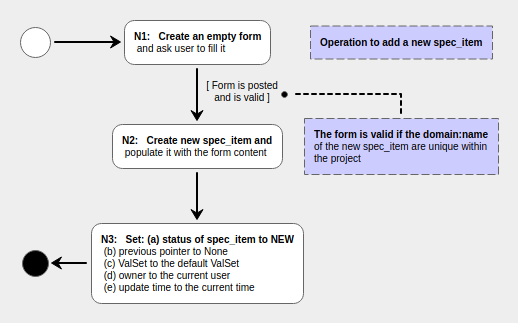
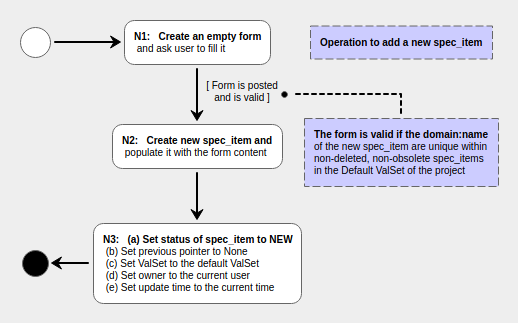
Updated spec_item edit and split functions

Changed region(s): [[0.1544, 0.6811, 0.5869, 0.9288], [0.5869, 0.4644, 0.9884, 0.5882]]

diff --git a/editor/templates/help.html b/editor/templates/help.html
@@ -335,18 +335,21 @@
     When specification item S1 in the Default ValSet is split, a new specification item S2 is created with
     the following characteristics:
     <ul>
-    <li>S2 has the same domain:name as S1</li>
+    <li>S2 has the same domain and name as S1</li>
     <li>The val_set attribute of S2 is different from the val_set attribute of all other specification
-        items created by splitting S1</li>
+        items created by splitting S1 (i.e. no two specification items with the same domain and name can 
+        belong to the same ValSet) </li>
     <li>The 'parent' attribute of S2 points to S1</li>
     <li>Other pointer attributes of S2 are left blank</li>
-    <li>Non-pointer attributes of S2 other than domain:name can be set freely</li>
+    <li>Non-pointer attributes of S2 other than domain and name can be set freely</li>
     </ul>
-    When the two specification items S1 and S2 are processed further, the following constraints are enforced:
+    </p><p>
+    When the two specification items S1 and S2 are edited, the following constraints are enforced:
     <ul>
-    <li>The ValSet of S1 and S2 cannot be changed</li>
-    <li>The domain:name and the pointer attributes of S2  cannot be changed</li>
-    <li>If the domain:name of S1 is updated, the change is propagated to S2</li>
+    <li>The ValSet cannot be changed (i.e. the ValSet attribute can only be modified in a split operation)</li>
+    <li>The domain and the name of S2  cannot be changed</li>
+    <li>The pointer attributes of S2  cannot be changed (i.e. they must remain blank)</li>
+    <li>If the domain or the name of S1 is updated, the change is propagated to S2</li>
     <li>If S1 is deleted, then S2 is deleted, too</li>
     <li>Pointer attributes of S1 can only point to specification items in the Default ValSet</li>
     </ul>
@@ -364,20 +367,20 @@
     <li><strong>Delete</strong>: a spec_item is deleted</li>
     <li><strong>Split</strong>: a copy of a spec_item is created in a different ValSet</li>
     </ul>
+    </p><p>
     The semantics of these operations is illustrated in the activity diagrams below.
     In all cases, the user is presented a form which he fills in with information related to
     the requested operation.
     Before being processed, a validity check is performed on the data entered in the form by
     the user.
-    The validity check comprises: (a) generic checks as specified in the activity
-    diagrams below and (b) category-specific checks.
+    The validity check comprises: (a) generic checks and (b) category-specific checks.
+    The generic checks are specified in the activity diagrams below.
     The category-specific checks are:
     <ul>
     <li><strong>Data Item Type</strong>: If the kind of a data item type is set to non-enumerated, 
                                          it cannot have enumerated items attached to it</li>
     <li><strong>TBD</strong>: TBD</li>
     </ul>
-    
     </p><p>
     <img src="{% static 'images/AddSpecItem.png' %}"> 
     </p><p>

diff --git a/editor/templates/list_spec_items.html b/editor/templates/list_spec_items.html
@@ -97,13 +97,13 @@
                    href="{% url 'copy_spec_item' cat project.id application_id item.id sel_dom %}" title="Copy {{config.name}}">C</a>
                 <a class="btn btn-outline-dark btn-sm"
                    href="{% url 'del_spec_item' cat project.id application_id item.id sel_dom %}" title="Delete {{config.name}}">D</a>
+                <a class="btn btn-outline-dark btn-sm"
+                   href="{% url 'split_spec_item' cat project.id application_id item.id sel_dom %}" title="Split {{config.name}}">S</a>
                 {% endif %}
                 <a class="btn btn-outline-dark btn-sm"
                    href="{% url 'edit_spec_item' cat project.id application_id item.id sel_dom %}" title="Edit {{config.name}}">E</a>
                 <a class="btn btn-outline-dark btn-sm"
                    href="{% url 'list_spec_item_history' cat project.id application_id item.id sel_dom %}" title="{{config.name}} History">H</a>
-                <a class="btn btn-outline-dark btn-sm"
-                   href="{% url 'split_spec_item' cat project.id application_id item.id sel_dom %}" title="Split {{config.name}}">S</a>
                 {% if item.cat == 'DataItemType' and item.kind == 'ENUM' %}
                 <a class="btn btn-outline-dark btn-sm"
                    href="{% url 'add_spec_item' 'EnumItem' project.id application_id sel_dom %}?parent_id={{item.id}}" title="Add {{config.child_desc.name}}">A</a>

diff --git a/editor/views.py b/editor/views.py
@@ -17,8 +17,8 @@ from zipfile import ZipFile
 from datetime import datetime
 from itertools import chain
 
-from editor.configs import configs, dict_to_spec_item, duplicate_spec_item, save_spec_item, \
-                           remove_spec_item
+from editor.configs import configs, dict_to_spec_item, make_obs_spec_item_copy, save_spec_item, \
+                           remove_spec_item, update_dom_name_in_val_set
 from editor.models import Project, ProjectUser, Application, Release, ValSet, SpecItem, \
                           Requirement 
 from editor.forms import ApplicationForm, ProjectForm, ValSetForm, ReleaseForm, SpecItemForm
@@ -67,7 +67,7 @@ def change_password(request):
             messages.success(request, 'Your password was successfully updated!')
             return redirect('change_password')
         else:
-            messages.error(request, 'Please correct the error below.')
+            messages.error(request, 'Please correct the error below')
     else:
         form = PasswordChangeForm(request.user)
 
@@ -378,21 +378,13 @@ def edit_spec_item(request, cat, project_id, application_id, item_id, sel_dom):
                             initial=model_to_dict(spec_item))
         if form.is_valid():
             if spec_item.status == 'CNF':
-                spec_item.status = 'OBS'
-                old_spec_item = duplicate_spec_item(request, spec_item)
-                edited_spec_item = SpecItem()
-                edited_spec_item.cat = cat
-                edited_spec_item.status = 'MOD'
-                edited_spec_item.val_set = spec_item.val_set
-                edited_spec_item.previous = old_spec_item
-            else:
-                edited_spec_item = spec_item
-            dict_to_spec_item(form.cleaned_data, edited_spec_item)
-            edited_spec_item.updated_at = datetime.now()
-            edited_spec_item.owner = get_user(request)
-            edited_spec_item.project = project
-            edited_spec_item.application = application
-            save_spec_item(edited_spec_item)
+                spec_item = make_obs_spec_item_copy(request, spec_item)
+            dict_to_spec_item(form.cleaned_data, spec_item)
+            spec_item.updated_at = datetime.now()
+            spec_item.owner = get_user(request)
+            save_spec_item(spec_item)
+            if (spec_item.val_set.name == 'Default') and (('name' in form.changed_data) or ('domain' in form.changed_data)):
+                update_dom_name_in_val_set(spec_item)
             redirect_url = '/editor/'+cat+'/'+str(project_id)+'/'+str(application_id)+'/'+str(spec_item.val_set.id)+\
                            '/'+sel_dom+'/list_spec_items'
             return redirect(redirect_url)
@@ -406,16 +398,16 @@ def edit_spec_item(request, cat, project_id, application_id, item_id, sel_dom):
 @login_required         
 def copy_spec_item(request, cat, project_id, application_id, item_id, sel_dom):
     project = Project.objects.get(id=project_id)
+    spec_item = SpecItem.objects.get(id=item_id)
     if application_id != 0:
         application = Application.objects.get(id=application_id)
         title = 'Copy '+configs[cat]['name']+' in Application '+application.name
     else:
         application = None
         title = 'Copy '+configs[cat]['name']+' in Project '+project.name
-    if not has_access_to_project(request.user, project):
+    if not has_access_to_project(request.user, project) or (spec_item.val_set.name != 'Default'):
         return redirect(base_url)
   
-    spec_item = SpecItem.objects.get(id=item_id)
     if request.method == 'POST':   
         form = SpecItemForm('copy', cat, project, application, configs[cat], request.POST, \
                             initial=model_to_dict(spec_item))
@@ -441,29 +433,28 @@ def copy_spec_item(request, cat, project_id, application_id, item_id, sel_dom):
 @login_required         
 def split_spec_item(request, cat, project_id, application_id, item_id, sel_dom):
     project = Project.objects.get(id=project_id)
+    spec_item = SpecItem.objects.get(id=item_id)
     if application_id != 0:
         application = Application.objects.get(id=application_id)
         title = 'Split '+configs[cat]['name']+' in Application '+application.name
     else:
         application = None
         title = 'Split '+configs[cat]['name']+' in Project '+project.name
-    if not has_access_to_project(request.user, project):
+    if not has_access_to_project(request.user, project)  or (spec_item.val_set.name != 'Default'):
         return redirect(base_url)
   
-    spec_item = SpecItem.objects.get(id=item_id)
     if request.method == 'POST':   
         form = SpecItemForm('split', cat, project, application, configs[cat], request.POST, \
                             initial=model_to_dict(spec_item))
         if form.is_valid():
             new_spec_item = SpecItem()
             new_spec_item.cat = cat
-            default_val_set = ValSet.objects.filter(project_id=project.id).get(name='Default')
-            new_spec_item.val_set = default_val_set
             dict_to_spec_item(form.cleaned_data, new_spec_item)
             new_spec_item.updated_at = datetime.now()
             new_spec_item.owner = get_user(request)
             new_spec_item.project = project
             new_spec_item.application = application
+            new_spec_item.parent = spec_item
             new_spec_item.status = 'NEW'
             save_spec_item(new_spec_item)
             redirect_url = '/editor/'+cat+'/'+str(project_id)+'/'+str(application_id)+'/'+str(spec_item.val_set.id)+\

diff --git a/editor/configs.py b/editor/configs.py
@@ -61,6 +61,7 @@ configs = {'Requirement':{'name': 'Requirement',
                             'cols': {}
                            }
               }
+              
 
 def dict_to_spec_item(dic, spec_item):
     """ 
@@ -102,16 +103,34 @@ def dict_to_spec_item(dic, spec_item):
                 spec_item.req.ver_method = dic['ver_method']
 
           
-def duplicate_spec_item(request, spec_item):
-    """ Create a copy of spec_item, save it to the database and return it """
+def make_obs_spec_item_copy(request, spec_item):
+    """ 
+    The argument spec_item must be made obsolete: the previous pointer of spec_item is reset;
+    a copy of the spec_item is created; its status is set to OBS; the spec_item copy is saved 
+    to the database; the status of the argument spec_item is set to MOD; its previous
+    pointer is set to point to the newly created OBS copy; the original spec_item instance
+    is returned to the caller 
+    """
+    edited_spec_item_id = spec_item.id
+    previous = spec_item.previous
+    spec_item.previous = None
+    spec_item.save()            # Reset the previous pointer of the spec_item 
+    
     if spec_item.cat == 'Requirement':
         req = spec_item.req
         req.id = None
-        req.save()              # Create new instance holding the old version of the Requirement
+        req.save()              # Create new instance holding the old version of Requirement instance
         spec_item.req = req     # Now spec_item points to the newly-created Requirement instance
+    
+    spec_item.status = 'OBS'
+    spec_item.previous = previous
     spec_item.id = None
-    spec_item.save()            # Create new instance holding the old version of the spec_item
-    return spec_item            # Return the newly-created instance of spec_item
+    spec_item.save()            # Create new instance holding the OBS version of the spec_item
+    
+    edited_spec_item = SpecItem.objects.get(id=edited_spec_item_id) # Retrive original spec_item instance
+    edited_spec_item.previous = spec_item   # Now spec_item points to newly-created OBS copy 
+    edited_spec_item.status = 'MOD'
+    return edited_spec_item     # Return the newly-created instance of spec_item
 
 
 def remove_spec_item(request, spec_item):
@@ -120,7 +139,7 @@ def remove_spec_item(request, spec_item):
         spec_item.delete()
     except Exception as e:
         messages.error(request, 'Failure to delete ' + str(spec_item) + \
-                                ', possibly because it has children attached to it: ' + str(e))
+                                ', possibly because other spec_item reference it: ' + str(e))
         return
     if spec_item.req != None:
         spec_item.req.delete()    
@@ -139,3 +158,19 @@ def save_spec_item(spec_item):
     if spec_item.req != None:
         spec_item.req.save()
     spec_item.save()
+
+
+def update_dom_name_in_val_set(spec_item):
+    """ 
+    Propagate a change in domain:name in spec_item to spec_items in other ValSets.
+    This function assumes that spec_item is in the Default ValSet
+    """
+    if spec_item.children != None:    
+        for child in spec_item.children.all():
+            if child.val_set.name != 'Default':
+                child.name = spec_item.name
+                child.domain = spec_item.domain
+                child.save()
+    
+    
+     

diff --git a/editor/forms.py b/editor/forms.py
@@ -100,6 +100,7 @@ class SpecItemForm(forms.Form):
     close_out = forms.CharField(widget=forms.Textarea)
     ver_status = forms.ChoiceField(choices=REQ_VER_METHOD)
     parent = forms.ChoiceField(choices=())
+    disc = forms.ChoiceField(choices=())
    
     def __init__(self, mode, cat, project, application, config, *args, **kwargs):
         super(SpecItemForm, self).__init__(*args, **kwargs)
@@ -149,13 +150,17 @@ class SpecItemForm(forms.Form):
             val_set_name = ValSet.objects.filter(project_id=self.project.id).get(id=val_set_id).name
             self.fields['val_set'].choices = ((val_set_id, val_set_name),)
     
-        # In split mode, the ValSet can be edited but the domain:name must remain unchanges
+        # In split mode, the ValSet can be edited but domain, name and pointer fields must remain unchanged
+        # Parent field  must remain hidden
         if (self.mode == 'split'):     
             self.fields['val_set'].choices = ValSet.objects.filter(project_id=project.id).\
                                                             order_by('name').values_list('id','name')
             self.fields['domain'].disabled = True
             self.fields['name'].disabled = True
-
+            self.fields['parent'].disabled = True
+            self.fields['parent'].widget = forms.HiddenInput()
+            self.fields['disc'].disabled = True
+            
         # The domain of enumerated items is always equal to 'enum'  
         if cat == 'EnumItem':
             self.fields['domain'].initial = 'enum'
@@ -163,11 +168,11 @@ class SpecItemForm(forms.Form):
           
     def clean(self):
         """ Verify that: 
-        (a) In add and copy modes, the domain:name pair must be unique within non-deleted, non-obsolete spec_items 
+        (a) In add and copy modes, the domain:name pair is unique within non-deleted, non-obsolete spec_items 
             in the project and ValSet;
-        (b) In edit mode, if the domain:name has been modified, it must be unique within non-deleted, 
+        (b) In edit mode, if the domain:name has been modified, it is unique within non-deleted, 
             non-obsolete spec_items in the project and in the default ValSet;
-        (c) In split mode, the ValSet must not be duplicated within the set of non-deleted, non-obsolete spec_items
+        (c) In split mode, the ValSet is not duplicated within the set of non-deleted, non-obsolete spec_items
             of a project with the same domain:name 
         (d) If the kind of a data item type is set to non-enumerated, it cannot have enumerated items attached to it.
         """

diff --git a/editor/access.py b/editor/access.py
@@ -31,3 +31,4 @@ def can_create_project(user):
 def can_add_val_set(user):
     """ Return True if user is admin """
     return (user.is_staff) 
+
